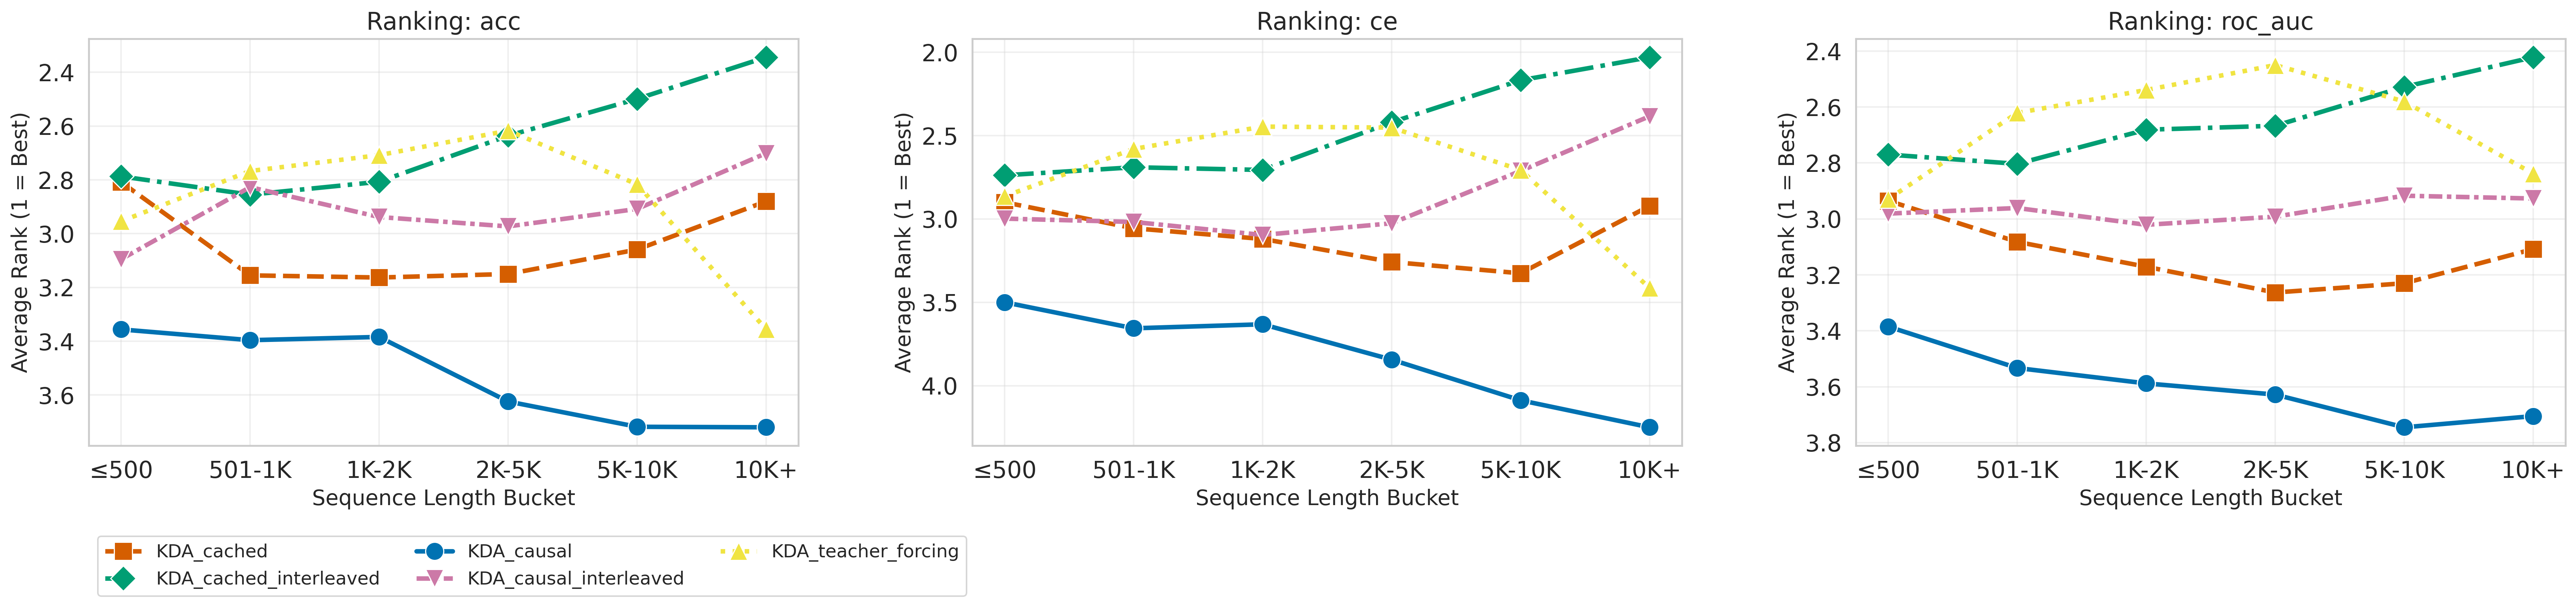
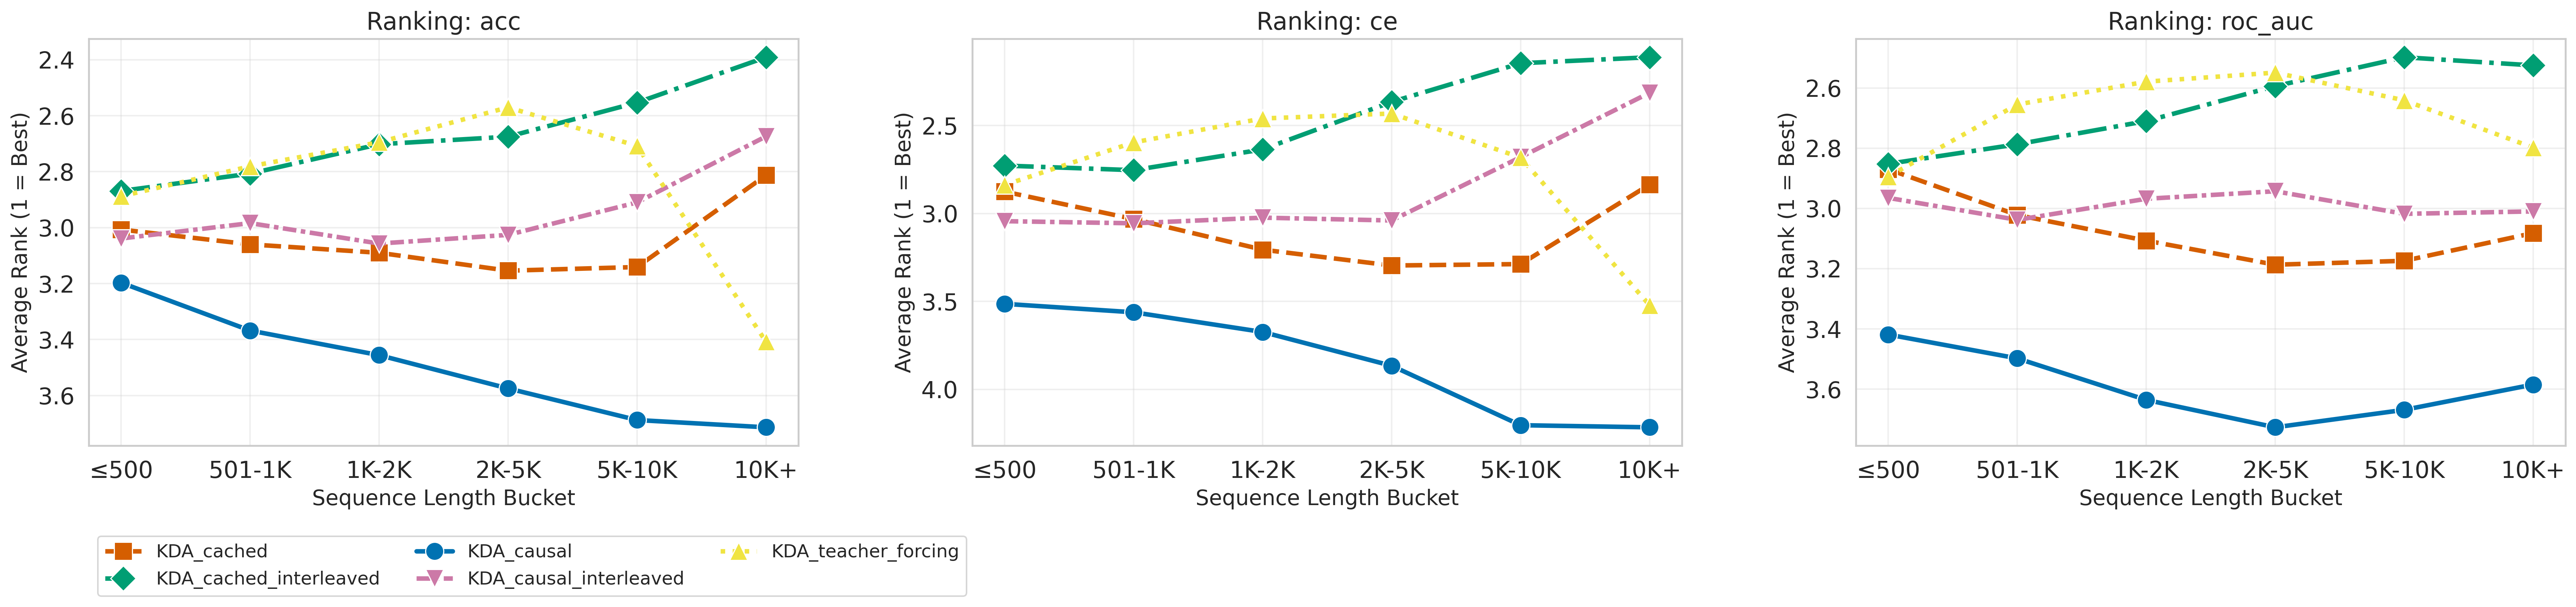
Improved model storage and added wandb id to the path to avoid overwrites

diff --git a/PFNs/pfns/run_training_cli.py b/PFNs/pfns/run_training_cli.py
@@ -19,7 +19,8 @@ from pfns.run_evaluation_cli import (
     compute_per_dataset_stats,
 )
 from pfns.utils import get_default_device
-from pfns.run_logger import WandbConfig, create_run_manager
+from pfns.run_logger import WandbConfig, create_run_manager, download_model_from_wandb
+import wandb
 
 
 def parse_args():
@@ -73,6 +74,14 @@ def parse_args():
         "--new-wandb-id",
         action="store_true",
         help="Start a new wandb run ID when resuming from a checkpoint.",
+    )
+    parser.add_argument(
+        "--continue-from-wandb",
+        type=str,
+        default=None,
+        metavar="RUN_PATH",
+        help="Continue training from a wandb run (e.g., 'entity/project/run_id' or 'project/runs/run_id'). "
+             "Downloads the checkpoint from wandb if not present locally.",
     )
 
     parser.add_argument(
@@ -209,144 +218,141 @@ def load_config_from_python(
         raise ValueError(f"Failed to load config from {config_file}: {e}")
 
 
+def _update_config(config: pfns.train.MainConfig, **updates) -> pfns.train.MainConfig:
+    """Helper to update frozen config dataclass."""
+    return config.__class__(**{**config.__dict__, **updates})
+
+
+def _update_wandb(config: pfns.train.MainConfig, **updates) -> pfns.train.MainConfig:
+    """Helper to update wandb config within MainConfig."""
+    base = config.wandb or WandbConfig()
+    return _update_config(config, wandb=WandbConfig(**{**base.__dict__, **updates}))
+
+
+def _build_checkpoint_path(
+    prefix: str,
+    config_file: str,
+    config_index: int,
+    run_id: str,
+    config_kwargs: dict | None = None,
+    suffix: str = "",
+) -> str:
+    """Build checkpoint directory path: {prefix}/{config_name}_{index}[_{kwargs}][_{suffix}]_{run_id}
+    
+    Directory name is truncated to 255 bytes if needed (with hash to preserve uniqueness).
+    """
+    import hashlib
+    
+    config_name = config_file.split("/")[-1].split(".")[0]
+    parts = [config_name, str(config_index)]
+    
+    # Add config kwargs to path
+    if config_kwargs:
+        for key in sorted(config_kwargs):
+            value = config_kwargs[key]
+            if value is not None:
+                safe_val = str(value).replace(os.sep, "_").replace(" ", "")
+                parts.append(f"{key}_{safe_val}")
+    
+    if suffix:
+        parts.append(suffix)
+    
+    parts.append(run_id)
+    
+    dirname = "_".join(parts)
+    
+    max_len = 255
+    if len(dirname.encode('utf-8')) > max_len:
+        full_hash = hashlib.sha256(dirname.encode('utf-8')).hexdigest()[:8]
+        
+        # Format: {truncated_parts}_{hash}_{run_id}
+        available_len = max_len - len(run_id.encode('utf-8')) - len(full_hash) - 2  # 2 underscores
+        
+        parts_without_runid = parts[:-1]
+        truncated = "_".join(parts_without_runid).encode('utf-8')[:available_len].decode('utf-8', errors='ignore')
+        dirname = f"{truncated}_{full_hash}_{run_id}"
+    
+    return os.path.join(prefix, dirname)
+
+
 def main():
     """Main CLI entry point."""
     args = parse_args()
-
-    # Load configuration from Python file
     config_kwargs = dict(args.config_arg)
-    config = load_config_from_python(
-        args.config_file,
-        args.config_index,
-        config_kwargs=config_kwargs,
-    )
+    print("Loading configuration...")
+    config = load_config_from_python(args.config_file, args.config_index, config_kwargs=config_kwargs)
 
-    def get_filename(config_file):
-        return f"{config_file.split('/')[-1].split('.')[0]}"
+    # --- Handle continuation from wandb ---
+    if args.continue_from_wandb is not None:
+        assert args.checkpoint_save_load_prefix, "--checkpoint-save-load-prefix required with --continue-from-wandb"
+        
+        run_id = args.continue_from_wandb.rstrip("/").split("/")[-1]
+        
+        checkpoint_path = download_model_from_wandb(args.continue_from_wandb)
+        
+        config = pfns.train.load_config(checkpoint_path)
+        print(f"Continuing from wandb run: {run_id}")
 
-    def format_config_suffix(kwargs: dict[str, object]) -> str:
-        if not kwargs:
-            return ""
-        parts = []
-        for key in sorted(kwargs):
-            value = kwargs[key]
-            if value is None:
-                continue
-            safe_key = str(key).replace(os.sep, "_")
-            safe_value = str(value).replace(os.sep, "_").replace(" ", "")
-            parts.append(f"{safe_key}_{safe_value}")
-        return "_" + "_".join(parts) if parts else ""
-
-    if args.checkpoint_save_load_suffix:
-        assert (
-            args.checkpoint_save_load_prefix is not None
-        ), "checkpoint_save_load_prefix is required when checkpoint_save_load_suffix is provided"
-
-    # Override checkpoint paths if specified via CLI
-    if args.checkpoint_save_load_prefix is not None:
-        assert (
-            config.train_state_dict_save_path is None
-        ), "train_state_dict_save_path is already set"
-        assert (
-            config.train_state_dict_load_path is None
-        ), "train_state_dict_load_path is already set"
-
-        # Add suffix if it exists
-        suffix = f"_{args.config_index}"
-        suffix += format_config_suffix(config_kwargs)
-        if args.checkpoint_save_load_suffix:
-            suffix += f"_{args.checkpoint_save_load_suffix}"
-
-        path = f"{args.checkpoint_save_load_prefix}/{get_filename(args.config_file)}{suffix}"
-
-        config = config.__class__(
-            **{
-                **config.__dict__,
-                "train_state_dict_save_path": path + "/checkpoint.pt",
-                "train_state_dict_load_path": path + "/checkpoint.pt",
-            }
-        )
-        os.makedirs(path, exist_ok=True)
-
-    # If no wandb dir is set but we have a train_state_dict_save_path, set wandb dir to this directory
-    if config.wandb is not None and config.wandb.dir is None and config.train_state_dict_save_path is not None:
-        config = config.__class__(
-            **{
-                **config.__dict__,
-                "wandb": WandbConfig(
-                    **{
-                        **config.wandb.__dict__,
-                        "dir": os.path.dirname(config.train_state_dict_save_path),
-                    }
-                ),
-            }
-        )
-
-    if args.wandb is not None: # Wandb CLI flag overrides config file
-        if args.wandb:  # enable wandb if requrested via cli
+    # --- Apply CLI overrides ---
+    if args.wandb is not None:
+        if args.wandb:
             if config.wandb is None:
-                raise ValueError(
-                    "--wandb was set, but config.wandb is None. Configure wandb in the config file."
-                )
-            if config.wandb.mode == "disabled":  # overrides config file
-                config = config.__class__(
-                    **{
-                        **config.__dict__,
-                        "wandb": WandbConfig(
-                            **{
-                                **config.wandb.__dict__,
-                                "mode": "online",
-                            }
-                        ),
-                    }
-                )
-        else:  # disable wandb if requested via cli
-            existing = config.wandb or WandbConfig()
-            config = config.__class__(
-                **{
-                    **config.__dict__,
-                    "wandb": WandbConfig(**{**existing.__dict__, "mode": "disabled"}),
-                }
-            )
-
-    # We overwrite the config with the one from the checkpoint if it exists
-    # as there is some randomness in the config and we want to use the exact
-    # same config again. When --overwrite is set, skip loading so we start fresh.
-    if not args.overwrite and pfns.train.should_load_checkpoint(config):
-        config = pfns.train.load_config(
-            config.train_state_dict_load_path,
-        )
-        if args.new_wandb_id and config.wandb_run_id is not None:
-            config = config.__class__(**{**config.__dict__, "wandb_run_id": None})
+                raise ValueError("--wandb requires wandb to be configured in config file")
+            if config.wandb.mode == "disabled":
+                config = _update_wandb(config, mode="online")
+        else:
+            config = _update_wandb(config, mode="disabled")
 
     if args.train_mixed_precision is not None:
-        config = config.__class__(
-            **{
-                **config.__dict__,
-                "train_mixed_precision": args.train_mixed_precision,
-            }
-        )
+        config = _update_config(config, train_mixed_precision=args.train_mixed_precision)
 
-    print("Starting training with configuration:")
-    print(f"  Epochs: {config.epochs}")
-    print(f"  Steps per epoch: {config.steps_per_epoch}")
-    print(f"  Test steps per epoch: {config.test_steps_per_epoch}")
+    # --- Initialize wandb ---
+    run_manager = create_run_manager(config.wandb, full_config=config.to_dict(), run_id=config.wandb_run_id)
+    
+    if run_manager.run_id and config.wandb_run_id != run_manager.run_id:
+        config = _update_config(config, wandb_run_id=run_manager.run_id)
+
+    # --- Set up checkpoint paths ---
+    if args.checkpoint_save_load_prefix and args.continue_from_wandb is None and config.train_state_dict_save_path is None:
+        # Use wandb run_id if available, otherwise use fixed ID (allows auto-resume)
+        if run_manager.run_id:
+            run_id = run_manager.run_id
+        else:
+            run_id = "default"
+            print(f"No wandb enabled - using fixed ID: {run_id} (will auto-resume from same path)")
+            print(f"Consider enabling wandb or using unique --checkpoint-save-load-suffix to avoid overwriting checkpoints.")
+        
+        path = _build_checkpoint_path(
+            args.checkpoint_save_load_prefix, args.config_file, args.config_index,
+            run_id, config_kwargs, args.checkpoint_save_load_suffix,
+        )
+        checkpoint_path = os.path.join(path, "checkpoint.pt")
+        config = _update_config(config,
+            train_state_dict_save_path=checkpoint_path,
+            train_state_dict_load_path=checkpoint_path,
+        )
+        if config.wandb and not config.wandb.dir:
+            config = _update_wandb(config, dir=path)
+        
+        os.makedirs(path, exist_ok=True)
+        print(f"Checkpoint path: {checkpoint_path}")
+
+    # --- Update wandb config with all changes ---
+    if run_manager.run_id:
+        wandb.config.update(config.to_dict(), allow_val_change=True)
+
+    if run_manager.run_id:
+        print(f"Wandb run: {run_manager.run_id}")
+
+    should_run_eval = config.train_state_dict_save_path is not None
+    
+    print(f"Starting / Continuing training:")
+    print(f"  Epochs: {config.epochs} epochs")
+    print(f"  Steps / epoch: {config.steps_per_epoch}")
+    print(f"  Test steps / epoch: {config.test_steps_per_epoch}")
     print(f"  Device: {args.device or 'auto-detect'}")
     print(f"  Mixed precision: {config.train_mixed_precision}")
-
-    run_manager = create_run_manager(
-        config.wandb,
-        full_config=config.to_dict(),
-        run_id=config.wandb_run_id,
-    )
-    if run_manager.run_id is not None and config.wandb_run_id != run_manager.run_id:
-        config = config.__class__(
-            **{**config.__dict__, "wandb_run_id": run_manager.run_id}
-        )
-    should_run_eval = config.train_state_dict_save_path is not None
-    if run_manager.run_id is not None:
-        print("wandb logging enabled.")
-
+    
     try:
         result = pfns.train.train(
             c=config,

diff --git a/PFNs/pfns/train.py b/PFNs/pfns/train.py
@@ -108,9 +108,6 @@ def train(
             f"{c.from_yaml(c.to_yaml())=} vs {c=}"
         )
 
-    # Arguments from original signature not in MainConfig are set to defaults here
-    load_weights_from_this_state_dict = None
-
     total_start_time = time.time()
 
     if device is None:
@@ -199,9 +196,6 @@ def train(
 
     model = c.model.create_model()
     criterion = model.criterion
-
-    if load_weights_from_this_state_dict is not None:
-        model.load_state_dict(load_weights_from_this_state_dict)
 
     print(
         f"Using a model with {sum(p.numel() for p in model.parameters()) / 1000 / 1000:.{2}f} M parameters"

diff --git a/PFNs/configs/fla/fla_config.py b/PFNs/configs/fla/fla_config.py
@@ -284,7 +284,7 @@ def get_config(
     if interleave_x_y_pairs:
         wandb_extras.append("interleaved")
     if use_short_conv is not None:
-        wandb_extras.append(f"shortconv{use_short_conv}")
+        wandb_extras.append(f"shortconv_{use_short_conv}")
     wandb_extras.append(f"fpe_{feature_positional_embedding}")
     wandb_suffix = f"_{'_'.join(wandb_extras)}" if wandb_extras else ""
     wandb_name = (

diff --git a/PFNs/pfns/run_logger.py b/PFNs/pfns/run_logger.py
@@ -224,7 +224,7 @@ def download_model_from_wandb(
             local_epoch = model_data.get('epoch')
             remote_epoch = run.summary.get("trainer/epoch")
             
-            if local_run_id == run.id and local_epoch is not None and local_epoch == remote_epoch:
+            if local_run_id == run.id and local_epoch is not None and (local_epoch == remote_epoch or local_epoch == remote_epoch - 1): # can be off by 1 when interupted mid epoch
                 print(f"Model at {destination_path} is already up to date (Run ID: {local_run_id}, Epoch: {local_epoch}). Skipping download.")
                 return destination_path
             